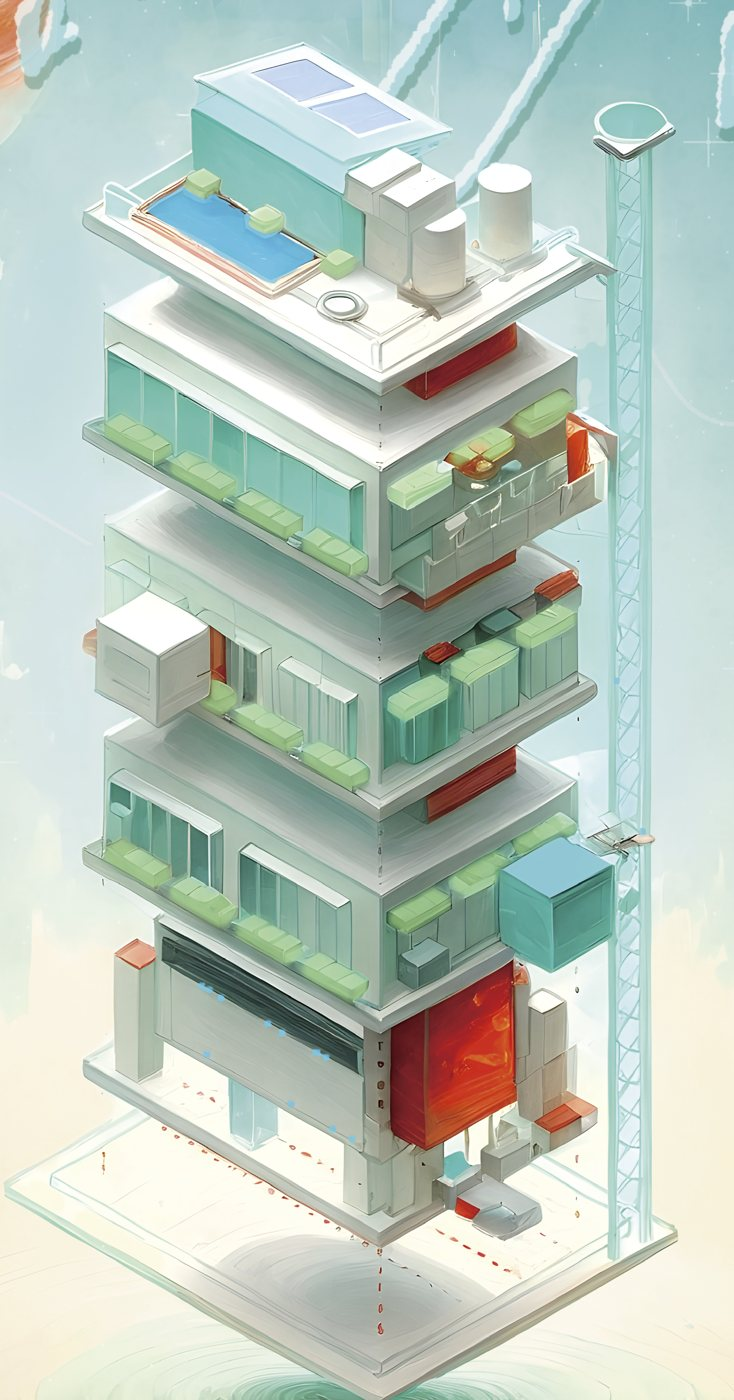
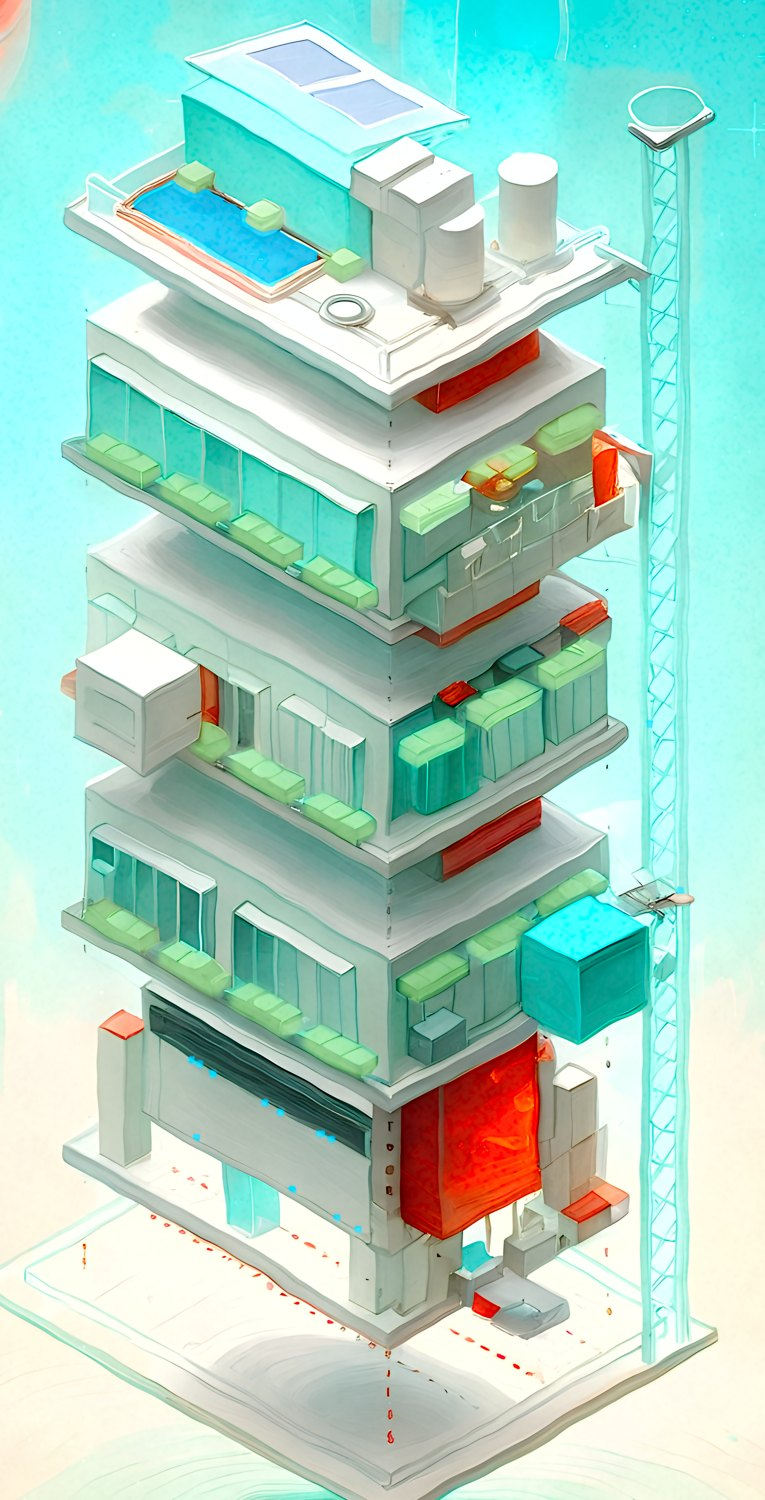
詭祕日頁：改用乾淨主視覺原圖、六層各自獨立區塊、樓層牌直接跳該層
Claude-Session: https://claude.ai/code/session_0169nfEvsRtUo8Uderzu3SGe

diff --git a/mystery-day-2026/index.html b/mystery-day-2026/index.html
@@ -32,8 +32,8 @@
   button{font:inherit;color:inherit;background:none;border:0;cursor:pointer}
 
   /* ════════ 第一幕：天空、塔、樓層牌 ════════ */
-  .stage{position:relative;background:linear-gradient(180deg,var(--sky-2) 0%,var(--sky) 62%,var(--ground) 100%);overflow:hidden}
-  .stage::before{content:"";position:absolute;inset:0;background:url(img/sky.jpg) center top/cover;opacity:.55;mix-blend-mode:multiply}
+  .stage{position:relative;background:linear-gradient(180deg,#7FDCD9 0%,#BFEDE8 45%,#E9EAD9 78%,var(--ground) 100%);overflow:hidden}
+  .stage::before{content:"";position:absolute;inset:0;background:url(img/sky.jpg) center top/cover;opacity:.35;-webkit-mask-image:linear-gradient(180deg,#000 0,#000 40%,transparent 85%);mask-image:linear-gradient(180deg,#000 0,#000 40%,transparent 85%)}
   .stage::after{content:"";position:absolute;left:0;right:0;bottom:0;height:120px;background:linear-gradient(180deg,rgba(244,241,234,0),var(--ground))}
   .stagein{position:relative;z-index:1;max-width:1040px;margin:0 auto;padding:40px 24px 24px;display:grid;grid-template-columns:400px 1fr;gap:24px}
 
@@ -42,13 +42,15 @@
   h1{position:relative;font-size:76px;line-height:1;letter-spacing:.12em;font-weight:700;margin-top:4px;color:var(--ink)}
   h1 span{position:relative;z-index:1}
   h1 i{position:absolute;left:5px;top:5px;font-style:normal;color:var(--ember);opacity:.85;z-index:0;letter-spacing:.12em}
+  .planet{position:absolute;right:-20px;top:-46px;width:170px;height:170px;border-radius:50%;background:url(img/planet.jpg) center/cover;opacity:.9;box-shadow:0 0 60px 30px rgba(196,225,226,.6);z-index:0}
+  .stagein > div:first-child{position:relative}
   .latin{font-family:var(--mono);font-size:10.5px;letter-spacing:.42em;color:var(--mid);margin-top:14px}
   .slogan{font-family:var(--sans);font-size:15px;letter-spacing:.14em;line-height:1.9;margin-top:22px;padding-left:12px;border-left:3px solid var(--ember)}
   .slogan small{display:block;font-size:12.5px;color:var(--mid);letter-spacing:.08em}
 
   /* 入場券：資訊單元的容器；兩側圓孔＝撕票口 */
   .ticket{margin-top:28px;background:var(--ink);color:var(--ground);position:relative;padding:18px 20px 16px}
-  .ticket::before,.ticket::after{content:"";position:absolute;top:50%;width:16px;height:16px;border-radius:50%;background:var(--sky);transform:translateY(-50%)}
+  .ticket::before,.ticket::after{content:"";position:absolute;top:50%;width:16px;height:16px;border-radius:50%;background:#D9EEE6;transform:translateY(-50%)}
   .ticket::before{left:-8px}.ticket::after{right:-8px}
   .ticket .th{display:flex;justify-content:space-between;align-items:baseline;border-bottom:1px dashed rgba(244,241,234,.35);padding-bottom:10px;margin-bottom:12px}
   .ticket .th b{font-family:var(--sans);font-size:12px;letter-spacing:.3em;font-weight:600}
@@ -67,49 +69,52 @@
 
   /* 塔＋樓層線＋樓層牌 */
   .tower{position:relative;height:700px}
-  .tower img.t{position:absolute;left:0;top:0;height:100%;width:auto}
-  .floor{position:absolute;left:255px;right:0;transform:translateY(-50%);display:flex;align-items:center}
-  .floor .ln{flex:0 0 46px;height:0;border-top:1.5px dashed var(--ember);position:relative}
-  .floor .ln::before{content:"";position:absolute;left:-4px;top:-4px;width:7px;height:7px;border-radius:50%;background:var(--ember)}
-  .plate{flex:1;display:flex;align-items:stretch;background:var(--paper);border:1px solid var(--rule);box-shadow:0 2px 0 var(--rule);text-align:left;transition:transform .15s,box-shadow .15s;width:100%}
+  .tower img.t{position:absolute;left:0;top:0;height:100%;width:auto;-webkit-mask-image:linear-gradient(90deg,transparent 0,#000 12%,#000 88%,transparent 100%),linear-gradient(180deg,transparent 0,#000 8%,#000 94%,transparent 100%);-webkit-mask-composite:source-in;mask-image:linear-gradient(90deg,transparent 0,#000 12%,#000 88%,transparent 100%),linear-gradient(180deg,transparent 0,#000 8%,#000 94%,transparent 100%);mask-composite:intersect}
+  .floor{position:absolute;left:300px;right:0;transform:translateY(-50%);display:flex;align-items:center}
+  .floor .ln{flex:0 0 40px;height:0;border-top:1.5px dashed var(--ember);position:relative}
+  .floor .ln::before{content:attr(data-n);position:absolute;left:-11px;top:-11px;width:22px;height:22px;border-radius:50%;background:var(--ember);color:#fff;font-family:var(--mono);font-size:11px;font-weight:600;display:flex;align-items:center;justify-content:center;box-shadow:0 0 0 3px rgba(255,255,255,.7)}
+  .plate{flex:1;display:flex;text-decoration:none;color:inherit;align-items:stretch;background:var(--paper);border:1px solid var(--rule);box-shadow:0 2px 0 var(--rule);text-align:left;transition:transform .15s,box-shadow .15s;width:100%}
   .plate:hover{transform:translateX(3px);box-shadow:0 2px 0 var(--teal)}
   .plate.on{border-color:var(--ink);box-shadow:0 2px 0 var(--ink);transform:translateX(3px)}
   .plate .no{flex:0 0 46px;background:var(--ink);color:var(--ground);display:flex;flex-direction:column;align-items:center;justify-content:center;font-family:var(--mono);line-height:1.1}
   .plate .no b{font-size:17px;font-weight:600}
   .plate .no small{font-size:9px;letter-spacing:.14em;color:var(--sky-deep)}
   .plate.on .no{background:var(--ember)}
-  .plate .tx{padding:8px 12px;flex:1;min-width:0}
+  .plate .tx{padding:7px 10px;flex:1;min-width:0}
   .plate .tm{font-family:var(--mono);font-size:12px;letter-spacing:.1em;color:var(--teal);font-weight:600}
-  .plate .nm{font-family:var(--sans);font-size:14px;font-weight:600;letter-spacing:.06em;line-height:1.4;white-space:nowrap;overflow:hidden;text-overflow:ellipsis}
-  .plate .nm.long{font-size:13px}
+  .plate .nm{font-family:var(--sans);font-size:13.5px;font-weight:600;letter-spacing:.04em;line-height:1.35}
+  .plate .nm.long{font-size:12.5px}
   .plate .more{flex:0 0 22px;display:flex;align-items:center;justify-content:center;color:var(--dim);font-family:var(--mono);font-size:14px}
   .plate.on .more{color:var(--ember)}
   .plate.leaf{pointer-events:none}
   .plate.leaf .more{visibility:hidden}
   .floorlist{display:none}
-  .hint{position:absolute;left:255px;bottom:-6px;font-family:var(--sans);font-size:11px;letter-spacing:.2em;color:var(--mid)}
+  .hint{position:absolute;left:300px;bottom:-6px;font-family:var(--sans);font-size:11px;letter-spacing:.2em;color:var(--mid)}
   .hint::before{content:"↑ ";color:var(--ember)}
 
-  /* ════════ 第二幕：樓層細節（一次只開一層） ════════ */
+  /* ════════ 第二幕：六層樓區塊 ════════ */
   .wrap{max-width:1040px;margin:0 auto;padding:0 24px 56px}
-  .dock{margin-top:8px;background:var(--paper);border:1px solid var(--rule);border-left:6px solid var(--ember);display:none}
-  .dock.open{display:block}
-  .dock .dh{display:flex;align-items:center;gap:14px;padding:16px 22px;border-bottom:1px solid var(--rule)}
-  .dock .dh .no{font-family:var(--mono);font-size:22px;font-weight:600;color:var(--ember);line-height:1}
-  .dock .dh .no small{font-size:10px;letter-spacing:.14em;color:var(--dim);display:block}
-  .dock .dh h2{font-family:var(--sans);font-size:19px;letter-spacing:.12em;font-weight:600;flex:1}
-  .dock .dh .tm{font-family:var(--mono);font-size:13px;letter-spacing:.1em;color:var(--teal)}
-  .dock .dh .x{color:var(--dim);font-family:var(--mono);font-size:18px;padding:0 4px}
-  .dock .dh .x:hover{color:var(--ink)}
-  .pane{display:none;padding:20px 22px 24px}
-  .pane.on{display:block}
-  .pane p{color:var(--mid);font-size:14.5px}
-  .pane .more{margin-top:16px;font-family:var(--sans);font-size:13px;letter-spacing:.08em}
-  .pane .more a{display:inline-block;border:1px solid var(--teal);padding:7px 14px;text-decoration:none;margin-right:10px}
-  .pane .more a:hover{background:var(--teal);color:#fff}
+  .floors{margin-top:8px;display:grid;gap:14px}
+  .fb{background:var(--paper);border:1px solid var(--rule);scroll-margin-top:16px}
+  .fh{display:grid;grid-template-columns:64px 1fr auto;align-items:center;border-bottom:1px solid var(--rule)}
+  .fno{align-self:stretch;background:var(--ink);color:var(--ground);display:flex;flex-direction:column;align-items:center;justify-content:center;padding:12px 0;line-height:1}
+  .fno b{font-family:var(--mono);font-size:24px;font-weight:600}
+  .fno small{font-family:var(--mono);font-size:8.5px;letter-spacing:.2em;color:var(--sky-deep);margin-top:4px}
+  .ft{padding:12px 18px}
+  .ft .tm{font-family:var(--mono);font-size:12px;letter-spacing:.12em;color:var(--teal);font-weight:600}
+  .ft h2{font-family:var(--sans);font-size:18px;letter-spacing:.1em;font-weight:600;line-height:1.3}
+  .up{font-family:var(--sans);font-size:11px;letter-spacing:.14em;color:var(--dim);text-decoration:none;padding:0 18px}
+  .up:hover{color:var(--ember)}
+  .fbody{padding:18px 22px 22px}
+  .fbody p{color:var(--mid);font-size:14.5px}
+  .fbody .more{margin-top:16px;font-family:var(--sans);font-size:13px;letter-spacing:.08em}
+  .fbody .more a{display:inline-block;border:1px solid var(--teal);padding:7px 14px;text-decoration:none;margin-right:10px}
+  .fbody .more a:hover{background:var(--teal);color:#fff}
+  #f1 .fbody,#f6 .fbody{padding:12px 22px 14px}
+  #f1 .fno,#f6 .fno{background:var(--mid)}
 
   /* 與談人 */
-  .people{display:flex;gap:12px;flex-wrap:wrap;margin-top:14px}
+  .people{display:flex;gap:12px;flex-wrap:wrap;margin-top:10px}
   .pp{display:flex;align-items:center;gap:12px;background:var(--white);border:1px solid var(--rule);padding:12px 18px 12px 12px}
   .pp .av{width:44px;height:44px;border-radius:50%;background:var(--ink);color:var(--ground);display:flex;align-items:center;justify-content:center;font-family:var(--serif);font-size:18px;font-weight:600}
   .pp b{font-family:var(--sans);font-size:16px;letter-spacing:.14em;font-weight:600;display:block}
@@ -137,11 +142,11 @@
   .g-gold i{background:var(--gold)}.g-fire i{background:var(--ember)}.g-tree i{background:var(--mint)}.g-earth i{background:var(--earth)}.g-water i{background:var(--sky-deep)}
 
   /* 出席作家（預留） */
-  .authors{display:grid;grid-template-columns:repeat(4,1fr);gap:12px;margin-top:14px}
+  .authors{display:grid;grid-template-columns:repeat(4,1fr);gap:12px;margin-top:10px}
   .au{background:var(--white);border:1px solid var(--rule);padding:12px 14px}
   .au b{font-family:var(--sans);font-size:15px;letter-spacing:.08em;font-weight:600}
   .au div{font-size:12.5px;color:var(--mid);margin-top:4px;line-height:1.6}
-  .empty{margin-top:14px;border:1px dashed var(--sky-deep);background:var(--white);padding:18px;text-align:center;font-family:var(--sans);font-size:13px;letter-spacing:.08em;color:var(--mid)}
+  .empty{margin-top:10px;border:1px dashed var(--sky-deep);background:var(--white);padding:18px;text-align:center;font-family:var(--sans);font-size:13px;letter-spacing:.08em;color:var(--mid)}
 
   /* ════════ 第三幕：信、書、會場 ════════ */
   .row{display:grid;grid-template-columns:1.15fr .85fr;gap:20px;margin-top:28px}
@@ -181,6 +186,9 @@
   @media (max-width:880px){
     .stagein{grid-template-columns:1fr;gap:18px;padding-top:28px}
     h1{font-size:56px}
+    .planet{width:130px;height:130px;right:-10px;top:-20px}
+    .fh{grid-template-columns:52px 1fr}
+    .up{display:none}
     .tower{height:auto;display:grid;grid-template-columns:150px 1fr;grid-template-rows:auto auto;gap:8px 12px;align-items:stretch}
     .tower img.t{position:static;height:auto;width:100%;grid-column:1;grid-row:1;align-self:center}
     .floor{display:none}
@@ -208,6 +216,7 @@
     <div>
       <div class="brand">台灣犯罪作家聯會 × 幻華創造</div>
       <div class="yr">2026</div>
+      <div class="planet" aria-hidden="true"></div>
       <h1><i aria-hidden="true">詭祕日</i><span>詭祕日</span></h1>
       <div class="latin">CRIME WRITERS OF TAIWAN ANNUAL DAY</div>
       <p class="slogan">台灣犯罪文學界的年度盛事<small>在廣袤的星河中，成為屬於自己最耀眼的光芒</small></p>
@@ -229,46 +238,56 @@
 
     <div class="tower" id="tower">
       <img class="t" src="img/tower.jpg" alt="2026 詭祕日主視覺：一座六層的塔">
-      <!-- 樓層線：由下往上＝時間往後走。top 值對到塔身各層 -->
-      <div class="floor" style="top:88%"><span class="ln"></span>
-        <div class="plate leaf" data-f="1"><div class="no"><b>1</b><small>F</small></div><div class="tx"><div class="tm">14:30</div><div class="nm">活動開始・14:00 開放入場</div></div><div class="more">+</div></div></div>
-      <div class="floor" style="top:74%"><span class="ln"></span>
-        <button class="plate" data-f="2"><div class="no"><b>2</b><small>F</small></div><div class="tx"><div class="tm">14:40</div><div class="nm">2026 犯聯作家創作巡禮</div></div><div class="more">+</div></button></div>
-      <div class="floor" style="top:60%"><span class="ln"></span>
-        <button class="plate" data-f="3"><div class="no"><b>3</b><small>F</small></div><div class="tx"><div class="tm">15:00</div><div class="nm">偵探的步伐——漫談寫作習慣</div></div><div class="more">+</div></button></div>
-      <div class="floor" style="top:47%"><span class="ln"></span>
-        <button class="plate" data-f="4"><div class="no"><b>4</b><small>F</small></div><div class="tx"><div class="tm">15:30</div><div class="nm">「第九屆林佛兒獎」頒獎典禮</div></div><div class="more">+</div></button></div>
-      <div class="floor" style="top:32%"><span class="ln"></span>
-        <button class="plate" data-f="5"><div class="no"><b>5</b><small>F</small></div><div class="tx"><div class="tm">16:00</div><div class="nm long">「2026 完美犯罪讀這本！」頒獎典禮</div></div><div class="more">+</div></button></div>
-      <div class="floor" style="top:15%"><span class="ln"></span>
-        <button class="plate" data-f="6"><div class="no"><b>6</b><small>F</small></div><div class="tx"><div class="tm">16:30</div><div class="nm">簽書與現場交流</div></div><div class="more">+</div></button></div>
+      <!-- 樓層線：由下往上＝時間往後走。top 值對到塔身各層；點樓層牌跳到下方該層區塊 -->
+      <div class="floor" style="top:88%"><span class="ln" data-n="1"></span>
+        <a class="plate" href="#f1" data-f="1"><div class="no"><b>1</b><small>F</small></div><div class="tx"><div class="tm">14:30</div><div class="nm long">活動開始・14:00 開放入場</div></div><div class="more">↓</div></a></div>
+      <div class="floor" style="top:75%"><span class="ln" data-n="2"></span>
+        <a class="plate" href="#f2" data-f="2"><div class="no"><b>2</b><small>F</small></div><div class="tx"><div class="tm">14:40</div><div class="nm">2026 犯聯作家創作巡禮</div></div><div class="more">↓</div></a></div>
+      <div class="floor" style="top:62%"><span class="ln" data-n="3"></span>
+        <a class="plate" href="#f3" data-f="3"><div class="no"><b>3</b><small>F</small></div><div class="tx"><div class="tm">15:00</div><div class="nm">偵探的步伐——漫談寫作習慣</div></div><div class="more">↓</div></a></div>
+      <div class="floor" style="top:47%"><span class="ln" data-n="4"></span>
+        <a class="plate" href="#f4" data-f="4"><div class="no"><b>4</b><small>F</small></div><div class="tx"><div class="tm">15:30</div><div class="nm">「第九屆林佛兒獎」頒獎典禮</div></div><div class="more">↓</div></a></div>
+      <div class="floor" style="top:30%"><span class="ln" data-n="5"></span>
+        <a class="plate" href="#f5" data-f="5"><div class="no"><b>5</b><small>F</small></div><div class="tx"><div class="tm">16:00</div><div class="nm long">「2026 完美犯罪讀這本！」頒獎典禮</div></div><div class="more">↓</div></a></div>
+      <div class="floor" style="top:11%"><span class="ln" data-n="6"></span>
+        <a class="plate" href="#f6" data-f="6"><div class="no"><b>6</b><small>F</small></div><div class="tx"><div class="tm">16:30</div><div class="nm">簽書與現場交流</div></div><div class="more">↓</div></a></div>
       <div class="hint">點樓層牌看該時段內容</div>
-      <!-- 手機版：同六張樓層牌成列，6F 在上 -->
       <div class="floorlist" id="floorlist"></div>
     </div>
   </div>
 </div>
 
 <!-- ═══ 第二幕：樓層細節 ═══ -->
-<div class="wrap">
-  <div class="dock" id="dock">
-    <div class="dh"><div class="no" id="dno">2<small>FLOOR</small></div><h2 id="dtitle"></h2><span class="tm" id="dtime"></span><button class="x" id="dclose" aria-label="收合">×</button></div>
-
-    <div class="pane" data-f="2">
+<div class="wrap" id="content">
+  <!-- ═══ 第二幕：六層樓，每層一個區塊（由下往上＝1F→6F） ═══ -->
+  <div class="floors">
+    <section class="fb" id="f1">
+      <div class="fh"><div class="fno"><b>1</b><small>FLOOR</small></div><div class="ft"><span class="tm">14:30</span><h2>活動開始・14:00 開放入場</h2></div><a class="up" href="#tower">回到塔 ↑</a></div>
+      <div class="fbody">
+      <p>14:00 開放入場，14:30 活動開始。</p>
+      </div>
+    </section>
+    <section class="fb" id="f2">
+      <div class="fh"><div class="fno"><b>2</b><small>FLOOR</small></div><div class="ft"><span class="tm">14:40</span><h2>2026 犯聯作家創作巡禮</h2></div><a class="up" href="#tower">回到塔 ↑</a></div>
+      <div class="fbody">
       <p>出席作家與本年度作品。</p>
       <div class="authors" id="authorGrid"></div>
       <div class="empty" id="authorEmpty">出席作家名單整理中，確定後於本頁更新。</div>
-    </div>
-
-    <div class="pane" data-f="3">
+      </div>
+    </section>
+    <section class="fb" id="f3">
+      <div class="fh"><div class="fno"><b>3</b><small>FLOOR</small></div><div class="ft"><span class="tm">15:00</span><h2>偵探的步伐——漫談寫作習慣</h2></div><a class="up" href="#tower">回到塔 ↑</a></div>
+      <div class="fbody">
       <p>與談人</p>
       <div class="people">
         <div class="pp"><div class="av">紀</div><div><b>紀蔚然</b><small>SPEAKER</small></div></div>
         <div class="pp"><div class="av">祁</div><div><b>祁立峰</b><small>SPEAKER</small></div></div>
       </div>
-    </div>
-
-    <div class="pane" data-f="4">
+      </div>
+    </section>
+    <section class="fb" id="f4">
+      <div class="fh"><div class="fno"><b>4</b><small>FLOOR</small></div><div class="ft"><span class="tm">15:30</span><h2>「第九屆林佛兒獎」頒獎典禮</h2></div><a class="up" href="#tower">回到塔 ↑</a></div>
+      <div class="fbody">
       <div class="scripts">
         <div class="sc"><img src="img/story-01.jpg" alt="扎滿圖釘的屍體"><span class="k">FINALIST</span><div class="tx"><div class="t">扎滿圖釘的屍體</div><div class="a">郭耘</div></div></div>
         <div class="sc"><img src="img/story-02.jpg" alt="湯底"><span class="k">FINALIST</span><div class="tx"><div class="t">湯底</div><div class="a">莫三</div></div></div>
@@ -276,9 +295,11 @@
       </div>
       <div class="fine">※ 決審三篇亂數排序，無任何排名或其他意義。得獎名次於詭祕日現場揭曉。</div>
       <div class="more"><a href="../foerlin9/" target="_top">第九屆林佛兒獎專頁 →</a></div>
-    </div>
-
-    <div class="pane" data-f="5">
+      </div>
+    </section>
+    <section class="fb" id="f5">
+      <div class="fh"><div class="fno"><b>5</b><small>FLOOR</small></div><div class="ft"><span class="tm">16:00</span><h2>「2026 完美犯罪讀這本！」頒獎典禮</h2></div><a class="up" href="#tower">回到塔 ↑</a></div>
+      <div class="fbody">
       <div class="medals">
         <div class="md"><div class="g g-gold"><i></i><span>金獎<small>年度最佳長篇小說</small></span></div><ul>
           <li>《她被殺死的那一天》<span>Shika 西卡・台灣角川</span></li>
@@ -297,11 +318,14 @@
           <li>《贖罪奏鳴曲》<span>中山七里著、李彥樺譯・瑞昇文化</span></li></ul></div>
       </div>
       <div class="more"><a href="https://www.the-cwt.com/2026pca-winners" target="_top">2026 完美犯罪讀這本！專頁 →</a></div>
-    </div>
-
-    <div class="pane" data-f="6">
+      </div>
+    </section>
+    <section class="fb" id="f6">
+      <div class="fh"><div class="fno"><b>6</b><small>FLOOR</small></div><div class="ft"><span class="tm">16:30</span><h2>簽書與現場交流</h2></div><a class="up" href="#tower">回到塔 ↑</a></div>
+      <div class="fbody">
       <p>簽書與現場交流。現場可購買當日首日發行的《推理》306、307 期與《地下情人》。</p>
-    </div>
+      </div>
+    </section>
   </div>
 
   <!-- ═══ 第三幕 ═══ -->
@@ -354,21 +378,6 @@
     var fl=document.getElementById('floorlist');
     [].slice.call(document.querySelectorAll('.floor .plate')).reverse().forEach(function(p){fl.appendChild(p.cloneNode(true));});
 
-    var dock=document.getElementById('dock'), dno=document.getElementById('dno'), dt=document.getElementById('dtitle'), dtm=document.getElementById('dtime');
-    function open(f){
-      var src=document.querySelector('.floor .plate[data-f="'+f+'"]');
-      var cur=dock.classList.contains('open') && dock.getAttribute('data-f')===f;
-      document.querySelectorAll('.plate').forEach(function(p){p.classList.toggle('on', !cur && p.getAttribute('data-f')===f);});
-      document.querySelectorAll('.pane').forEach(function(p){p.classList.toggle('on', !cur && p.getAttribute('data-f')===f);});
-      if(cur){dock.classList.remove('open');dock.removeAttribute('data-f');return;}
-      dock.classList.add('open'); dock.setAttribute('data-f',f);
-      dno.innerHTML=f+'<small>FLOOR</small>'; dt.textContent=src.querySelector('.nm').textContent; dtm.textContent=src.querySelector('.tm').textContent;
-      if(window.innerWidth<=880){dock.scrollIntoView({behavior:'smooth',block:'start'});}
-    }
-    document.querySelectorAll('.plate:not(.leaf)').forEach(function(p){p.addEventListener('click',function(){open(p.getAttribute('data-f'));});});
-    document.getElementById('dclose').addEventListener('click',function(){open(dock.getAttribute('data-f'));});
-    var env=document.getElementById('env'); document.getElementById('envtg').addEventListener('click',function(){env.classList.toggle('open');});
-    open('2');
   })();
 </script>
 </body>
